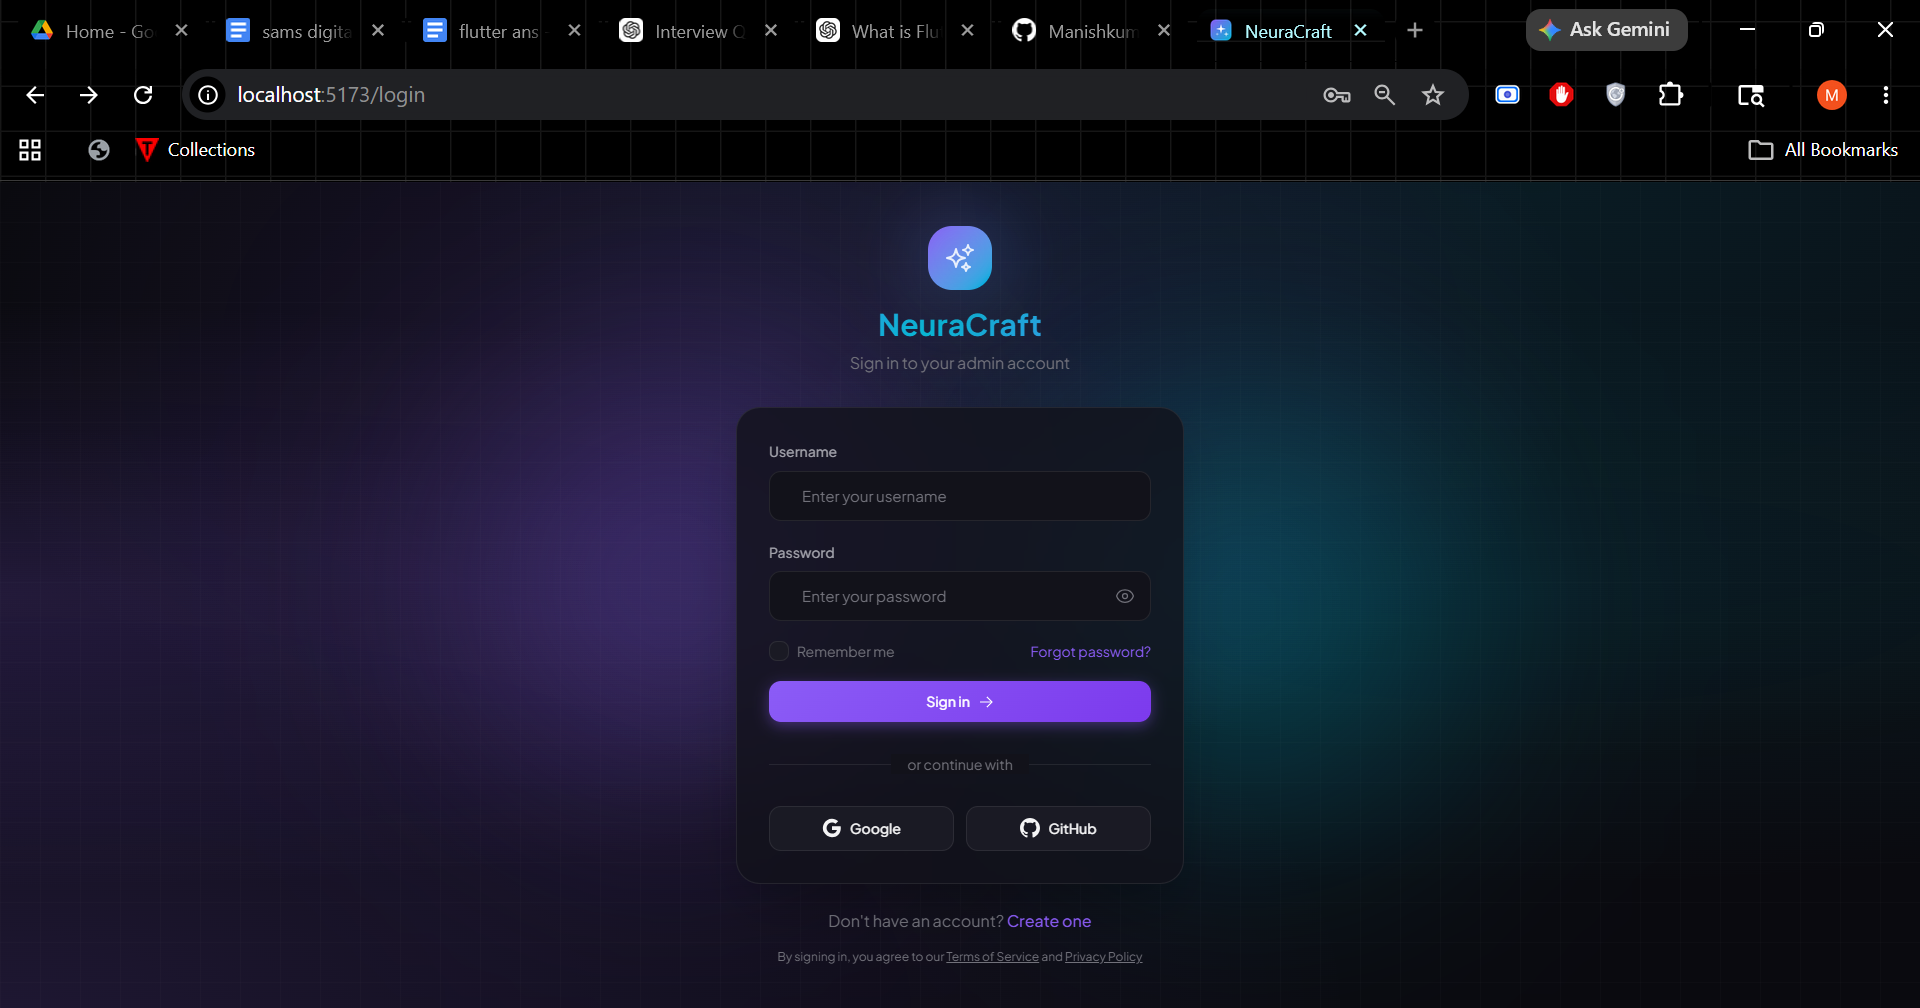
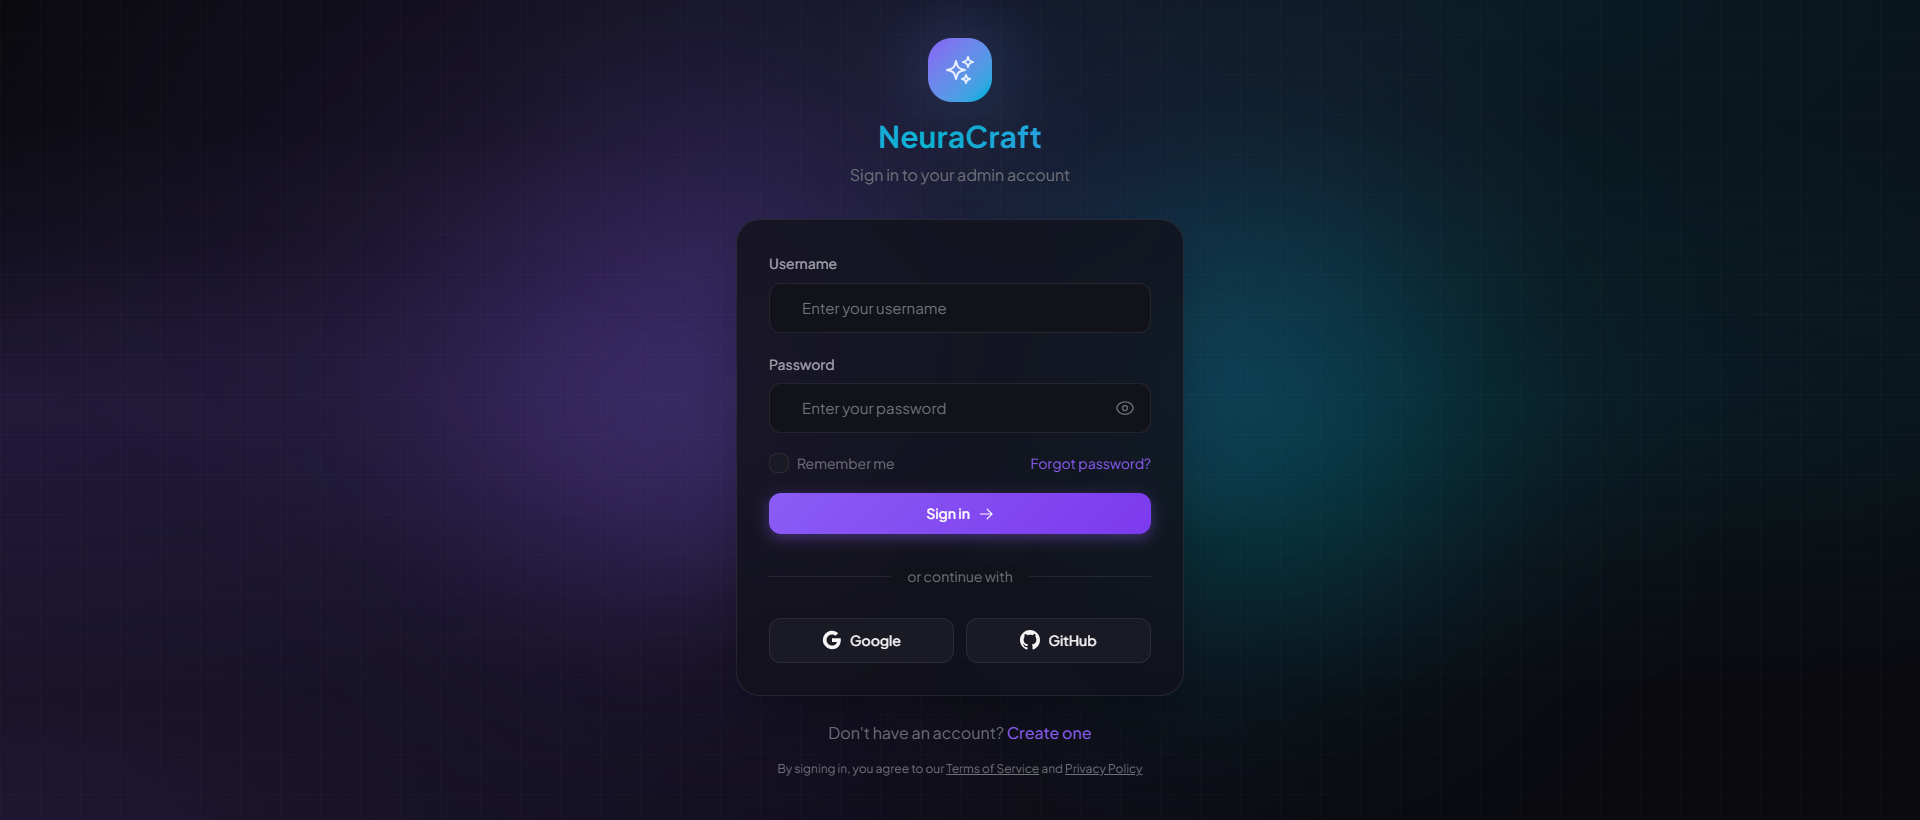
reduce sizes of images

diff --git a/README.md b/README.md
@@ -407,61 +407,61 @@ Change seeded passwords before deploying to production.
 
 ### Login Page
 
-![Login page](screenshots/login.png)
+<img src="screenshots/login.png" alt="Login page" width="760">
 
-![Sign up page](screenshots/sign-up.png)
+<img src="screenshots/sign-up.png" alt="Sign up page" width="760">
 
 ### Dashboard
 
-![Dashboard dark theme](screenshots/dashboard-dark.png)
+<img src="screenshots/dashboard-dark.png" alt="Dashboard dark theme" width="760">
 
-![Dashboard light theme](screenshots/dashboard-light.png)
+<img src="screenshots/dashboard-light.png" alt="Dashboard light theme" width="760">
 
 ### Users
 
-![Users list](screenshots/users-list.png)
+<img src="screenshots/users-list.png" alt="Users list" width="760">
 
-![User edit form](screenshots/user-edit.png)
+<img src="screenshots/user-edit.png" alt="User edit form" width="760">
 
 ### Roles and Permissions
 
-![Manage permissions](screenshots/manage-permission.png)
+<img src="screenshots/manage-permission.png" alt="Manage permissions" width="760">
 
 ### Modules
 
-![Module list](screenshots/module-list.png)
+<img src="screenshots/module-list.png" alt="Module list" width="760">
 
-![Module edit form](screenshots/module-edit.png)
+<img src="screenshots/module-edit.png" alt="Module edit form" width="760">
 
 ## Mobile Screenshots
 
 ### Login Page
 
-![Login page](screenshots/mobile-login.jpg)
+<img src="screenshots/mobile-login.jpg" alt="Mobile login page" width="260">
 
-![Sign up page](screenshots/mobile-signup.jpg)
+<img src="screenshots/mobile-signup.jpg" alt="Mobile sign up page" width="260">
 
 ### Dashboard
 
-![Dashboard](screenshots/mobile-dashboard.jpg)
+<img src="screenshots/mobile-dashboard.jpg" alt="Mobile dashboard" width="260">
 
 ### Users
 
-![Users list](screenshots/mobile-userlist.jpg)
+<img src="screenshots/mobile-userlist.jpg" alt="Mobile users list" width="260">
 
-![User create form](screenshots/mobile-createuser.jpg)
+<img src="screenshots/mobile-createuser.jpg" alt="Mobile user create form" width="260">
 
-![User profile](screenshots/mobile-profile.jpg)
+<img src="screenshots/mobile-profile.jpg" alt="Mobile user profile" width="260">
 
 ### Roles and Permissions
 
-![Manage permissions](screenshots/mobile-managepermission.jpg)
+<img src="screenshots/mobile-managepermission.jpg" alt="Mobile manage permissions" width="260">
 
 ### Modules
 
-![Module list](screenshots/mobile-modulelist.jpg)
+<img src="screenshots/mobile-modulelist.jpg" alt="Mobile module list" width="260">
 
-![Module edit form](screenshots/mobile-editmodule.jpg)
+<img src="screenshots/mobile-editmodule.jpg" alt="Mobile module edit form" width="260">
 
 ---
 
